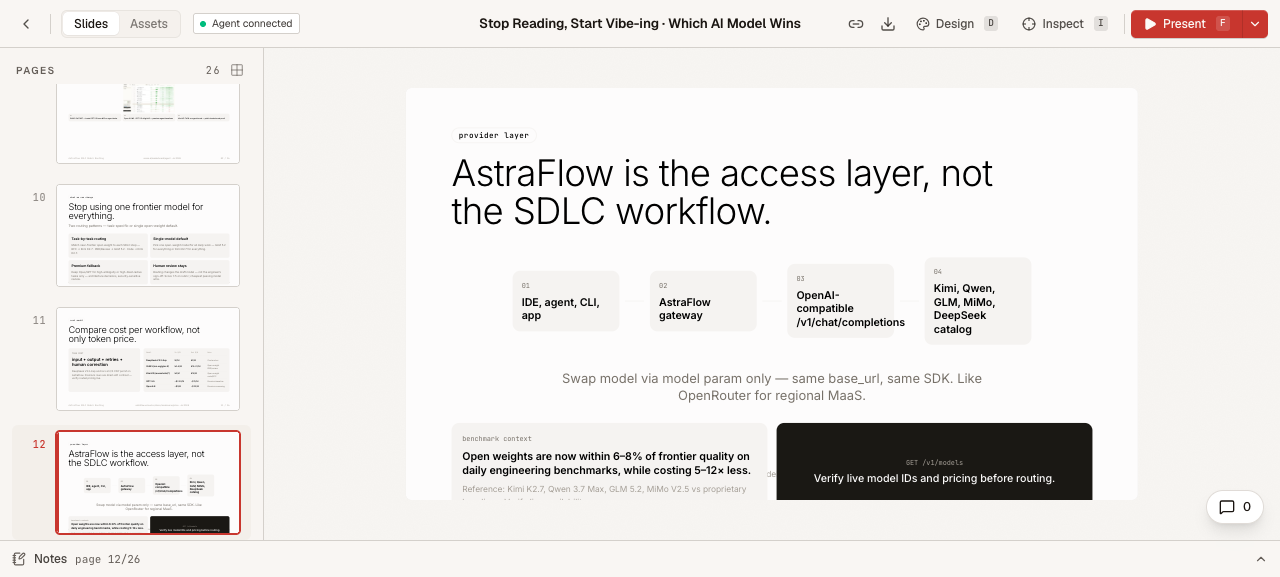
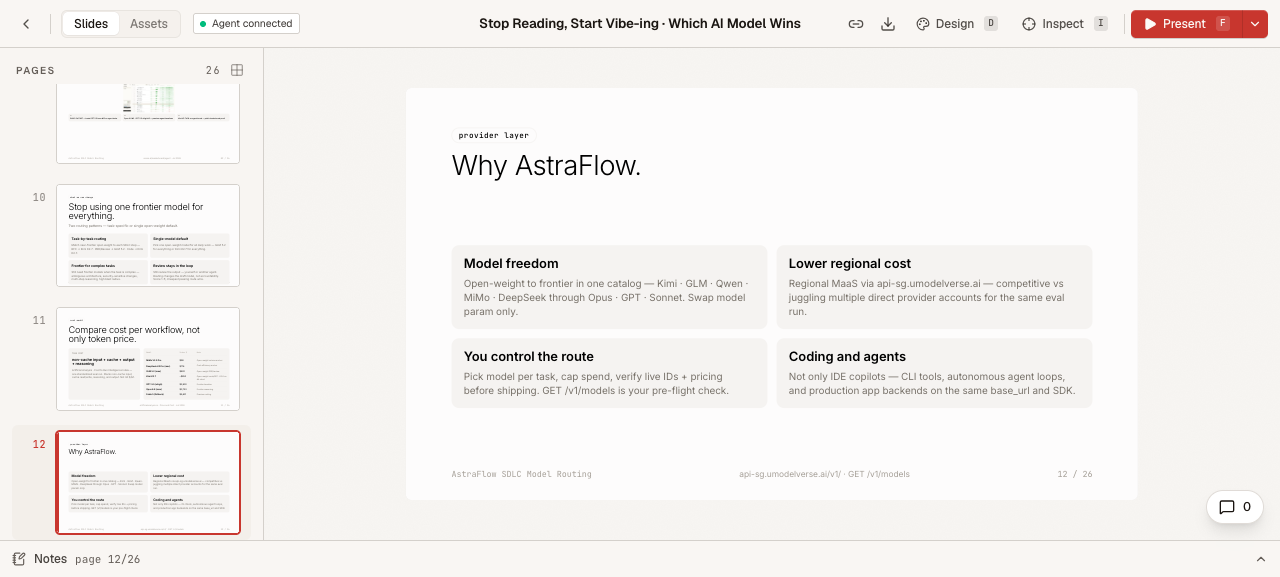
Reframe astra-sdlc payoff, compare methodology, and task setup slides.
Position AstraFlow and SDLC compares as neutral setup pages without premature winners; replace side-by-side model claims with task-specific values, trim workshop tail to routing matrix plus closing, and align AA pricing copy.

diff --git a/slides/astra-sdlc/content/sdlc.tsx b/slides/astra-sdlc/content/sdlc.tsx
@@ -1,22 +1,107 @@
 import type { Page } from '@open-slide/core';
-import { DemoPlaceholderPage, FlowDiagramPage, SideBySideCompare } from '../factories';
+import { DemoPlaceholderPage, TaskComparePage } from '../factories';
+import { Card, Heading, Slide } from '../primitives';
+import { c } from '../tokens';
 import type { SdlcCompare } from '../types';
 
 export const SDLC_COMPARES: SdlcCompare[] = [
-  { id: 'prd', kicker: 'task 01', title: 'PRD: replace when the input is structured enough.', task: 'PRD', proprietary: { model: 'GPT-5.5', strengths: ['Strong when the product problem is vague, political, or full of hidden assumptions.'] }, openWeight: { model: 'GLM 5.2', strengths: ['Strong when the brief has user, goal, scope, constraints, and acceptance criteria.'] }, risk: 'shallow requirements or missed edge cases', demo: { title: 'Demo: PRD (GPT-5.5 vs GLM 5.2)', subtitle: 'Switch to live IDE / AstraFlow console', source: 'Live demo · PRD task' } },
-  { id: 'rfc', kicker: 'task 02', title: 'RFC: replace first drafts, be careful with final architecture.', task: 'RFC', proprietary: { model: 'Opus 4.8', strengths: ['Useful for ambiguous architecture, long context, and second-order consequences.'] }, openWeight: { model: 'Kimi K2.7', strengths: ['Good for draft alternatives, risk lists, migration notes, and decision tables.'] }, risk: 'weak constraints, generic tradeoffs, or missing rollback plan', demo: { title: 'Demo: RFC (Opus 4.8 vs Kimi K2.7)', subtitle: 'Switch to live IDE / AstraFlow console', source: 'Live demo · RFC task' } },
-  { id: 'code', kicker: 'task 03', title: 'Code generation: replacement works best with narrow scope.', task: 'Generate Code', proprietary: { model: 'GPT-5.5', strengths: ['Helpful for unfamiliar codebases, multi-file context, and complex dependency chains.'] }, openWeight: { model: 'Kimi K2.7', strengths: ['Good for scoped implementation, tests, refactors; K2.7 within ~5–15pts of GPT-5.5 on coding benches.'] }, risk: 'fake APIs, incomplete integration, or style drift', demo: { title: 'Demo: Code (GPT-5.5 vs Kimi K2.7)', subtitle: 'Switch to live IDE / AstraFlow console', source: 'Live demo · Code task' } },
-  { id: 'review', kicker: 'task 04', title: 'Code review: use open-weight models as checklist amplifiers.', task: 'Review Code', proprietary: { model: 'Opus 4.8', strengths: ['Better for subtle reasoning, security-sensitive changes, and complex behavioral regressions.'] }, openWeight: { model: 'GLM 5.2', strengths: ['Good for missing tests, obvious bugs, inconsistent patterns, and checklist-based review.'] }, risk: 'confident noise or missed deep design issues', demo: { title: 'Demo: Review (Opus 4.8 vs GLM 5.2)', subtitle: 'Switch to live IDE / AstraFlow console', source: 'Live demo · Review task' } },
+  {
+    id: 'prd',
+    kicker: 'task 01',
+    title: 'Compare PRD.',
+    task: 'PRD',
+    about: 'Turn a feature brief into a product requirements document — what to build, what to skip, and what done looks like.',
+    values: 'Scope · Non-goals · Edge cases · Acceptance criteria',
+    proprietary: { model: 'GPT-5.5' },
+    openWeight: { model: 'GLM 5.2' },
+    demo: { title: 'Demo: PRD (GPT-5.5 vs GLM 5.2)', subtitle: 'Switch to live IDE / AstraFlow console', source: 'Live demo · PRD task' },
+  },
+  {
+    id: 'rfc',
+    kicker: 'task 02',
+    title: 'Compare RFC.',
+    task: 'RFC',
+    about: 'Technical proposal before code ships — problem framing, architecture, and how to roll out safely.',
+    values: 'Problem statement · Data model · API flow · Failure modes · Architecture tradeoffs · Rollout plan',
+    proprietary: { model: 'Opus 4.8' },
+    openWeight: { model: 'Kimi K2.7' },
+    demo: { title: 'Demo: RFC (Opus 4.8 vs Kimi K2.7)', subtitle: 'Switch to live IDE / AstraFlow console', source: 'Live demo · RFC task' },
+  },
+  {
+    id: 'code',
+    kicker: 'task 03',
+    title: 'Compare Code.',
+    task: 'Generate Code',
+    about: 'Focused implementation from a clear spec — a diff that compiles, integrates, and matches the codebase.',
+    values: 'Correct APIs · Scoped changes · Test coverage · Style fit · No hallucinated dependencies',
+    proprietary: { model: 'GPT-5.5' },
+    openWeight: { model: 'Kimi K2.7' },
+    demo: { title: 'Demo: Code (GPT-5.5 vs Kimi K2.7)', subtitle: 'Switch to live IDE / AstraFlow console', source: 'Live demo · Code task' },
+  },
+  {
+    id: 'review',
+    kicker: 'task 04',
+    title: 'Compare Review.',
+    task: 'Review Code',
+    about: 'Pre-merge review of a diff — catch what a human reviewer would flag before it ships.',
+    values: 'Missing tests · Edge cases · Security gaps · Pattern consistency · Actionable feedback',
+    proprietary: { model: 'Opus 4.8' },
+    openWeight: { model: 'GLM 5.2' },
+    demo: { title: 'Demo: Review (Opus 4.8 vs GLM 5.2)', subtitle: 'Switch to live IDE / AstraFlow console', source: 'Live demo · Review task' },
+  },
 ];
 
-export const SDLC_MAP = FlowDiagramPage({ kicker: 'sdlc map', title: 'Use the same four tasks for every model.', steps: [
-  { label: '01 · PRD', detail: 'GPT-5.5 vs GLM 5.2' },
-  { label: '02 · RFC', detail: 'Opus 4.8 vs Kimi K2.7' },
-  { label: '03 · Code', detail: 'GPT-5.5 vs Kimi K2.7' },
-  { label: '04 · Review', detail: 'Opus 4.8 vs GLM 5.2' },
-]});
+const CompareMethodologyPage: Page = () => (
+  <Slide source="api-sg.umodelverse.ai/v1/ · swap model param only" pad="104px 120px 116px">
+    <div style={{ height: '100%', display: 'flex', flexDirection: 'column' }}>
+      <Heading kicker="what we do" title="Four tasks. Two models. Same rubric." size="compact" />
+      <div
+        style={{
+          display: 'grid',
+          gridTemplateColumns: '1fr 1fr',
+          gap: 24,
+          marginTop: 48,
+          flex: 1,
+          minHeight: 0,
+          alignContent: 'center',
+        }}
+      >
+        <Card style={{ padding: '28px 32px' }}>
+          <div style={{ fontSize: 34, fontWeight: 600, lineHeight: 1.2 }}>Four tasks</div>
+          <p style={{ margin: '14px 0 0', fontSize: 26, lineHeight: 1.4, color: c.smoke }}>
+            PRD · RFC · Generate Code · Review Code — four fixed SDLC steps. Every model runs the same task.
+          </p>
+        </Card>
+        <Card style={{ padding: '28px 32px' }}>
+          <div style={{ fontSize: 34, fontWeight: 600, lineHeight: 1.2 }}>Model pairs</div>
+          <div style={{ margin: '14px 0 0', fontSize: 26, lineHeight: 1.4, color: c.smoke }}>
+            {SDLC_COMPARES.map((compare) => (
+              <p key={compare.id} style={{ margin: compare.id === 'prd' ? 0 : '10px 0 0' }}>
+                {compare.task} → {compare.proprietary.model} vs {compare.openWeight.model}
+              </p>
+            ))}
+          </div>
+        </Card>
+        <Card style={{ padding: '28px 32px' }}>
+          <div style={{ fontSize: 34, fontWeight: 600, lineHeight: 1.2 }}>Same setup</div>
+          <p style={{ margin: '14px 0 0', fontSize: 26, lineHeight: 1.4, color: c.smoke }}>
+            Identical prompt per task. Route both through AstraFlow — same base_url, same SDK, swap model param only.
+          </p>
+        </Card>
+        <Card style={{ padding: '28px 32px' }}>
+          <div style={{ fontSize: 34, fontWeight: 600, lineHeight: 1.2 }}>What we score</div>
+          <p style={{ margin: '14px 0 0', fontSize: 26, lineHeight: 1.4, color: c.smoke }}>
+            Correctness · Completeness · Engineering depth · Hallucination risk · Human cleanup — 1–5 per task, per model.
+          </p>
+        </Card>
+      </div>
+    </div>
+  </Slide>
+);
 
-export const SDLC_COMPARE_PAGES: Page[] = SDLC_COMPARES.flatMap((c) => [
-  SideBySideCompare(c),
-  DemoPlaceholderPage(c.demo),
+export const SDLC_MAP = CompareMethodologyPage;
+
+export const SDLC_COMPARE_PAGES: Page[] = SDLC_COMPARES.flatMap((compare) => [
+  TaskComparePage(compare),
+  DemoPlaceholderPage(compare.demo),
 ]);

diff --git a/slides/astra-sdlc/content/provider.tsx b/slides/astra-sdlc/content/provider.tsx
@@ -1,20 +1,50 @@
 import type { Page } from '@open-slide/core';
-import { FlowDiagramPage } from '../factories';
+import { Card, Heading, Slide } from '../primitives';
+import { c } from '../tokens';
 
-export const ASTRAFLOW_ACCESS = FlowDiagramPage({
-  kicker: 'provider layer',
-  title: 'AstraFlow is the access layer, not the SDLC workflow.',
-  steps: [
-    { label: '01', detail: 'IDE, agent, CLI, app' },
-    { label: '02', detail: 'AstraFlow gateway' },
-    { label: '03', detail: 'OpenAI-compatible /v1/chat/completions' },
-    { label: '04', detail: 'Kimi, Qwen, GLM, MiMo, DeepSeek catalog' },
-  ],
-  source: 'UCloud ModelVerse · api-sg.umodelverse.ai for SEA',
-  note: 'Swap model via model param only — same base_url, same SDK. Like OpenRouter for regional MaaS.',
-  callout: {
-    title: 'benchmark context',
-    body: 'Open weights are now within 6–8% of frontier quality on daily engineering benchmarks, while costing 5–12× less.',
-    footnote: 'Reference: Kimi K2.7, Qwen 3.7 Max, GLM 5.2, MiMo V2.5 vs proprietary baselines. Verify live availability.',
+const BENEFIT_CARDS = [
+  {
+    title: 'Model freedom',
+    body: 'Open-weight to frontier in one catalog — Kimi · GLM · Qwen · MiMo · DeepSeek through Opus · GPT · Sonnet. Swap model param only.',
   },
-});
+  {
+    title: 'Lower regional cost',
+    body: 'Regional MaaS via api-sg.umodelverse.ai — competitive vs juggling multiple direct provider accounts for the same eval run.',
+  },
+  {
+    title: 'You control the route',
+    body: 'Pick model per task, cap spend, verify live IDs + pricing before shipping. GET /v1/models is your pre-flight check.',
+  },
+  {
+    title: 'Coding and agents',
+    body: 'Not only IDE copilots — CLI tools, autonomous agent loops, and production app backends on the same base_url and SDK.',
+  },
+] as const;
+
+const ProviderPayoffPage: Page = () => (
+  <Slide source="api-sg.umodelverse.ai/v1/ · GET /v1/models" pad="104px 120px 116px">
+    <div style={{ height: '100%', display: 'flex', flexDirection: 'column' }}>
+      <Heading kicker="provider layer" title="Why AstraFlow." size="compact" />
+      <div
+        style={{
+          display: 'grid',
+          gridTemplateColumns: '1fr 1fr',
+          gap: 24,
+          marginTop: 48,
+          flex: 1,
+          minHeight: 0,
+          alignContent: 'center',
+        }}
+      >
+        {BENEFIT_CARDS.map((card) => (
+          <Card key={card.title} style={{ padding: '28px 32px' }}>
+            <div style={{ fontSize: 34, fontWeight: 600, lineHeight: 1.2 }}>{card.title}</div>
+            <p style={{ margin: '14px 0 0', fontSize: 26, lineHeight: 1.4, color: c.smoke }}>{card.body}</p>
+          </Card>
+        ))}
+      </div>
+    </div>
+  </Slide>
+);
+
+export const ASTRAFLOW_ACCESS = ProviderPayoffPage;

diff --git a/slides/astra-sdlc/factories.tsx b/slides/astra-sdlc/factories.tsx
@@ -146,16 +146,17 @@ export const ImageBenchmarkPage = ({ title, image, callouts, footerSource, footn
   return PageFn;
 };
 
-export const PricingTablePage = ({ title, formula, rows, anchorNote, source, mode = 'token-rate' }: {
+export const PricingTablePage = ({ title, formula, rows, anchorNote, source, mode = 'token-rate', costColumnLabel = '$/task' }: {
   title: string;
   formula: string;
   rows: { model: string; input?: string; output?: string; costPerTask?: string; note?: string }[];
   anchorNote: string;
   source?: string;
   mode?: 'token-rate' | 'task-cost';
+  costColumnLabel?: string;
 }) => {
   const headers = mode === 'task-cost'
-    ? (['Model', '$/task', 'Note'] as const)
+    ? (['Model', costColumnLabel, 'Note'] as const)
     : (['Model', 'In $/M', 'Out $/M', 'Note'] as const);
   const columns = mode === 'task-cost' ? '1.4fr 0.7fr 1.3fr' : '1.4fr 0.8fr 0.8fr 1fr';
   const PageFn: Page = () => (
@@ -196,21 +197,37 @@ export const PricingTablePage = ({ title, formula, rows, anchorNote, source, mod
   return PageFn;
 };
 
-export const SideBySideCompare = (d: SdlcCompare) => {
+export const TaskComparePage = (d: SdlcCompare) => {
   const PageFn: Page = () => (
-    <Slide>
-      <Heading kicker={d.kicker} title={d.title} />
-      <div style={{ display: 'grid', gridTemplateColumns: '280px 1fr 1fr', gap: 20, marginTop: 56 }}>
-        <Card style={{ padding: 24 }}><div style={{ fontFamily: font.mono, fontSize: 18, color: c.smoke }}>SDLC TASK</div><div style={{ marginTop: 16, fontSize: 40, fontWeight: 600 }}>{d.task}</div></Card>
-        <Card style={{ padding: 24 }}>
-          <div style={{ fontFamily: font.mono, fontSize: 18, color: c.amber }}>{d.proprietary.model}</div>
-          {d.proprietary.strengths.map((s) => <p key={s} style={{ margin: '14px 0 0', fontSize: 26, lineHeight: 1.34, color: c.smoke }}>{s}</p>)}
-        </Card>
-        <Card style={{ padding: 24 }}>
-          <div style={{ fontFamily: font.mono, fontSize: 18, color: c.green }}>{d.openWeight.model}</div>
-          {d.openWeight.strengths.map((s) => <p key={s} style={{ margin: '14px 0 0', fontSize: 26, lineHeight: 1.34, color: c.smoke }}>{s}</p>)}
-          <p style={{ marginTop: 20, color: c.red, fontSize: 22 }}>Risk: {d.risk}</p>
-        </Card>
+    <Slide source={`${d.proprietary.model} vs ${d.openWeight.model} · same prompt · swap model param`} pad="104px 120px 116px">
+      <div style={{ height: '100%', display: 'flex', flexDirection: 'column' }}>
+        <Heading kicker={d.kicker} title={d.title} size="compact" />
+        <div
+          style={{
+            display: 'grid',
+            gridTemplateColumns: '1fr 1fr 1fr',
+            gap: 24,
+            marginTop: 48,
+            flex: 1,
+            minHeight: 0,
+            alignContent: 'center',
+          }}
+        >
+          <Card style={{ padding: '28px 32px' }}>
+            <div style={{ fontSize: 34, fontWeight: 600, lineHeight: 1.2 }}>What it is</div>
+            <p style={{ margin: '14px 0 0', fontSize: 26, lineHeight: 1.4, color: c.smoke }}>{d.about}</p>
+          </Card>
+          <Card style={{ padding: '28px 32px' }}>
+            <div style={{ fontSize: 34, fontWeight: 600, lineHeight: 1.2 }}>What we value</div>
+            <p style={{ margin: '14px 0 0', fontSize: 26, lineHeight: 1.4, color: c.smoke }}>{d.values}</p>
+          </Card>
+          <Card style={{ padding: '28px 32px' }}>
+            <div style={{ fontSize: 34, fontWeight: 600, lineHeight: 1.2 }}>Models</div>
+            <p style={{ margin: '14px 0 0', fontSize: 26, lineHeight: 1.4, color: c.smoke }}>
+              {d.proprietary.model} vs {d.openWeight.model} — same prompt, route through AstraFlow.
+            </p>
+          </Card>
+        </div>
       </div>
     </Slide>
   );

diff --git a/slides/astra-sdlc/content/workshop.tsx b/slides/astra-sdlc/content/workshop.tsx
@@ -1,19 +1,5 @@
 import type { Page } from '@open-slide/core';
-import { HandsOnPage, HeadingGridPage, HeroPage, MatrixPage } from '../factories';
-
-const LOGISTICS = HeadingGridPage({
-  kicker: 'before we start hands-on',
-  title: 'Laptop ready — same scorecard, same prompts.',
-  source: 'AstraFlow · api-sg.umodelverse.ai · GET /v1/models to confirm IDs',
-  cards: [
-    { title: 'Laptop + IDE', body: 'Cursor, VS Code, or any OpenAI-compatible client. WiFi required.' },
-    { title: 'AstraFlow access', body: 'Workshop voucher / API key. base_url → api-sg.umodelverse.ai/v1/' },
-    { title: 'Verify models', body: 'Confirm GLM 5.2, GPT-5.5, Opus 4.8, Kimi K2.7 IDs via GET /v1/models.' },
-    { title: 'Scorecard', body: 'Use the next slide grid — print or duplicate in your notes. Score 1–5 per task.' },
-  ],
-  columns: 2,
-  footnote: 'Morning-of: recheck pricing at astraflow.ucloud.cn/docs/modelverse/price before live demos.',
-});
+import { HeroPage, MatrixPage } from '../factories';
 
 export const WORKSHOP_PAGES: Page[] = [
   MatrixPage({ kicker: 'routing matrix', title: 'Route by risk, context, and repeatability.', cards: [
@@ -22,20 +8,5 @@ export const WORKSHOP_PAGES: Page[] = [
     { title: 'Clear context', body: 'Open-weight candidates strengthen when prompts include source truth and acceptance criteria.' },
     { title: 'High blast radius', body: 'Keep human review strict. Consider premium model as second reviewer.' },
   ]}),
-  LOGISTICS,
-  HandsOnPage({ brief: 'Admin can create vouchers with expiry, usage limit, eligibility, and checkout validation. Prevent double usage and explain failed redemption clearly.', prompts: [
-    { title: 'prd prompt', body: 'Turn this feature brief into a PRD with scope, non-goals, edge cases, and acceptance criteria. Compare GPT-5.5 vs GLM 5.2.' },
-    { title: 'rfc prompt', body: 'Propose an RFC covering data model, API flow, validation logic, failure modes, and rollout. Compare Opus 4.8 vs Kimi K2.7.' },
-    { title: 'code prompt', body: 'Generate focused code changes for checkout validation. Compare GPT-5.5 vs Kimi K2.7.' },
-    { title: 'review prompt', body: 'Review the generated diff for missing tests, edge cases, and security gaps. Compare Opus 4.8 vs GLM 5.2.' },
-    { title: 'debug prompt', body: 'Paste a failing test or stack trace. Ask the model to fix root cause and explain the change. Iterate until green.' },
-  ]}),
-  MatrixPage({ kicker: 'scorecard', title: 'Give every model the same task and same scoring sheet.', table: { headers: ['Criterion', 'PRD', 'RFC', 'Code', 'Review'], rows: [
-    ['Correctness', '1-5', '1-5', '1-5', '1-5'],
-    ['Completeness', '1-5', '1-5', '1-5', '1-5'],
-    ['Engineering depth', '1-5', '1-5', '1-5', '1-5'],
-    ['Hallucination risk', '1-5', '1-5', '1-5', '1-5'],
-    ['Human cleanup', '1-5', '1-5', '1-5', '1-5'],
-  ]}, footnote: 'Print or screenshot this slide for hands-on. Score each model per task column — cheapest passing model wins.' }),
   HeroPage({ kicker: 'closing principle', title: 'Senior engineers choose the cheapest model that passes the bar.', subtitle: 'Not one smartest model. A routing system: task, quality bar, model candidate, cost check, human review.', source: 'Use live pricing and provider availability before final recommendation', center: true }),
 ];

diff --git a/slides/astra-sdlc/content/baseline.tsx b/slides/astra-sdlc/content/baseline.tsx
@@ -35,7 +35,7 @@ export const MEASURING_MODELS = HeadingGridPage({
   subtitle: 'Score the model you can ship with, not the one that sounds smartest.',
   cards: [
     { title: 'Tokens per second', body: 'Generation throughput — slow models compound across retries.' },
-    { title: 'Cost per task', body: 'Input + output + cache (+ reasoning) for one full pass — not list $/M alone.' },
+    { title: 'Cost per task', body: 'Non-cache input + cache + output + reasoning for one workflow — AA Intelligence Index run, not list $/M.' },
     { title: 'Tokens per task', body: 'Total token burn per workflow — efficiency matters at volume.' },
     { title: 'Capability fit', body: 'Task match: reasoning, coding, agent loops, structured output.' },
     { title: 'Vision input / output', body: 'Multimodal needs — screenshots, diagrams, UI mocks. Flag when an open-weight route lacks vision.' },
@@ -99,18 +99,19 @@ export const ROUTING_PATTERNS = HeadingGridPage({
 
 export const PRICING_TABLE = PricingTablePage({
   title: 'Compare cost per workflow, not only token price.',
-  formula: 'input + output + cache + reasoning',
+  formula: 'non-cache input + cache + output + reasoning',
   mode: 'task-cost',
-  anchorNote: 'Same AA baseline as slide 4 — Intelligence vs Cost scatter · Cost per Intelligence Index task. Stacks input, output, cache, and reasoning — not list $/M.',
-  source: 'artificialanalysis.ai · Intelligence vs Cost · Jul 2026',
+  costColumnLabel: 'Index $',
+  anchorNote: 'Artificial Analysis · Cost to Run Intelligence Index — one standardized eval run. Stacks non-cache input, cache read/write, reasoning, and output. Not list $/M.',
+  source: 'artificialanalysis.ai · Price and Cost · Jul 2026',
   rows: [
-    { model: 'MiMo V2.5 Pro', costPerTask: '~$0.03', note: 'Open-weight volume anchor' },
-    { model: 'DeepSeek V4 Pro (max)', costPerTask: '~$0.045', note: 'Cost-efficiency anchor' },
-    { model: 'Kimi K2.7', costPerTask: '~$0.35', note: 'Open-weight code/RFC · K2.6 on AA scatter' },
-    { model: 'GLM 5.2 (max)', costPerTask: '~$0.45', note: 'Open-weight PRD/review' },
-    { model: 'GPT-5.5 (xhigh)', costPerTask: '~$1.20', note: 'Frontier baseline' },
-    { model: 'Opus 4.8 (max)', costPerTask: '~$2.50', note: 'Frontier reasoning' },
-    { model: 'Fable 5 (fallback)', costPerTask: '~$2.80', note: 'Premium ceiling' },
+    { model: 'MiMo V2.5 Pro', costPerTask: '$98', note: 'Open-weight volume anchor' },
+    { model: 'DeepSeek V4 Pro (max)', costPerTask: '$176', note: 'Cost-efficiency anchor' },
+    { model: 'GLM 5.2 (max)', costPerTask: '$820', note: 'Open-weight PRD/review' },
+    { model: 'Kimi K2.7', costPerTask: '~$852', note: 'Open-weight code/RFC · K2.6 on AA chart' },
+    { model: 'GPT-5.5 (xhigh)', costPerTask: '$2,630', note: 'Frontier baseline' },
+    { model: 'Opus 4.8 (max)', costPerTask: '$3,753', note: 'Frontier reasoning' },
+    { model: 'Fable 5 (fallback)', costPerTask: '$5,631', note: 'Premium ceiling' },
   ],
 });
 

diff --git a/slides/astra-sdlc/types.ts b/slides/astra-sdlc/types.ts
@@ -1,14 +1,14 @@
 export type GridCard = { title: string; body: string };
 export type FlowStep = { label: string; detail: string };
-export type CompareSide = { model: string; strengths: string[] };
 
 export type SdlcCompare = {
   id: 'prd' | 'rfc' | 'code' | 'review';
   kicker: string;
   title: string;
   task: string;
-  proprietary: CompareSide;
-  openWeight: CompareSide;
-  risk: string;
+  about: string;
+  values: string;
+  proprietary: { model: string };
+  openWeight: { model: string };
   demo: { title: string; subtitle: string; source: string };
 };